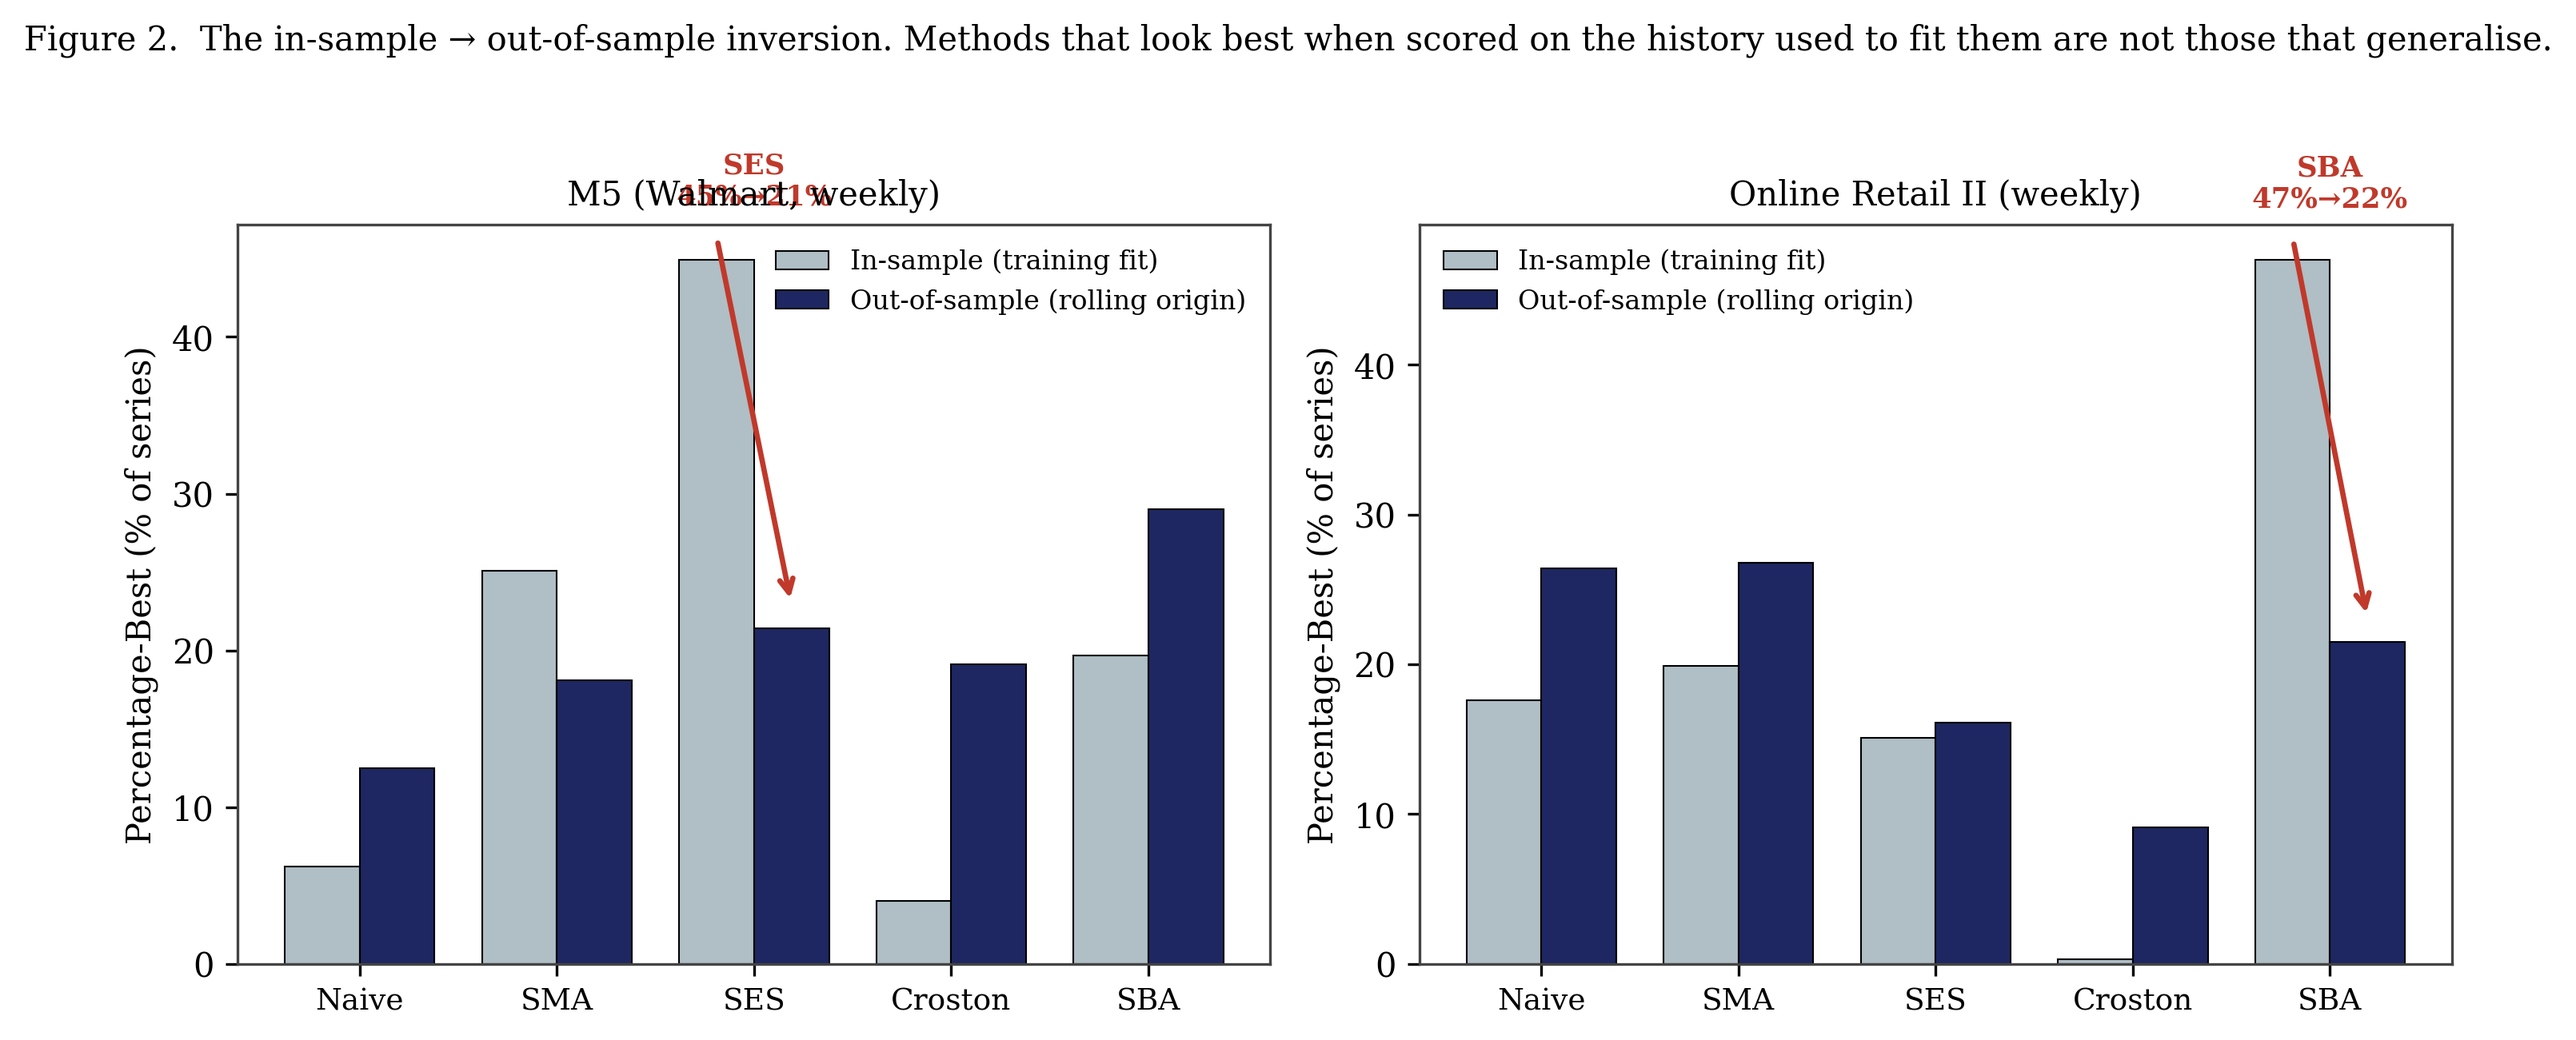
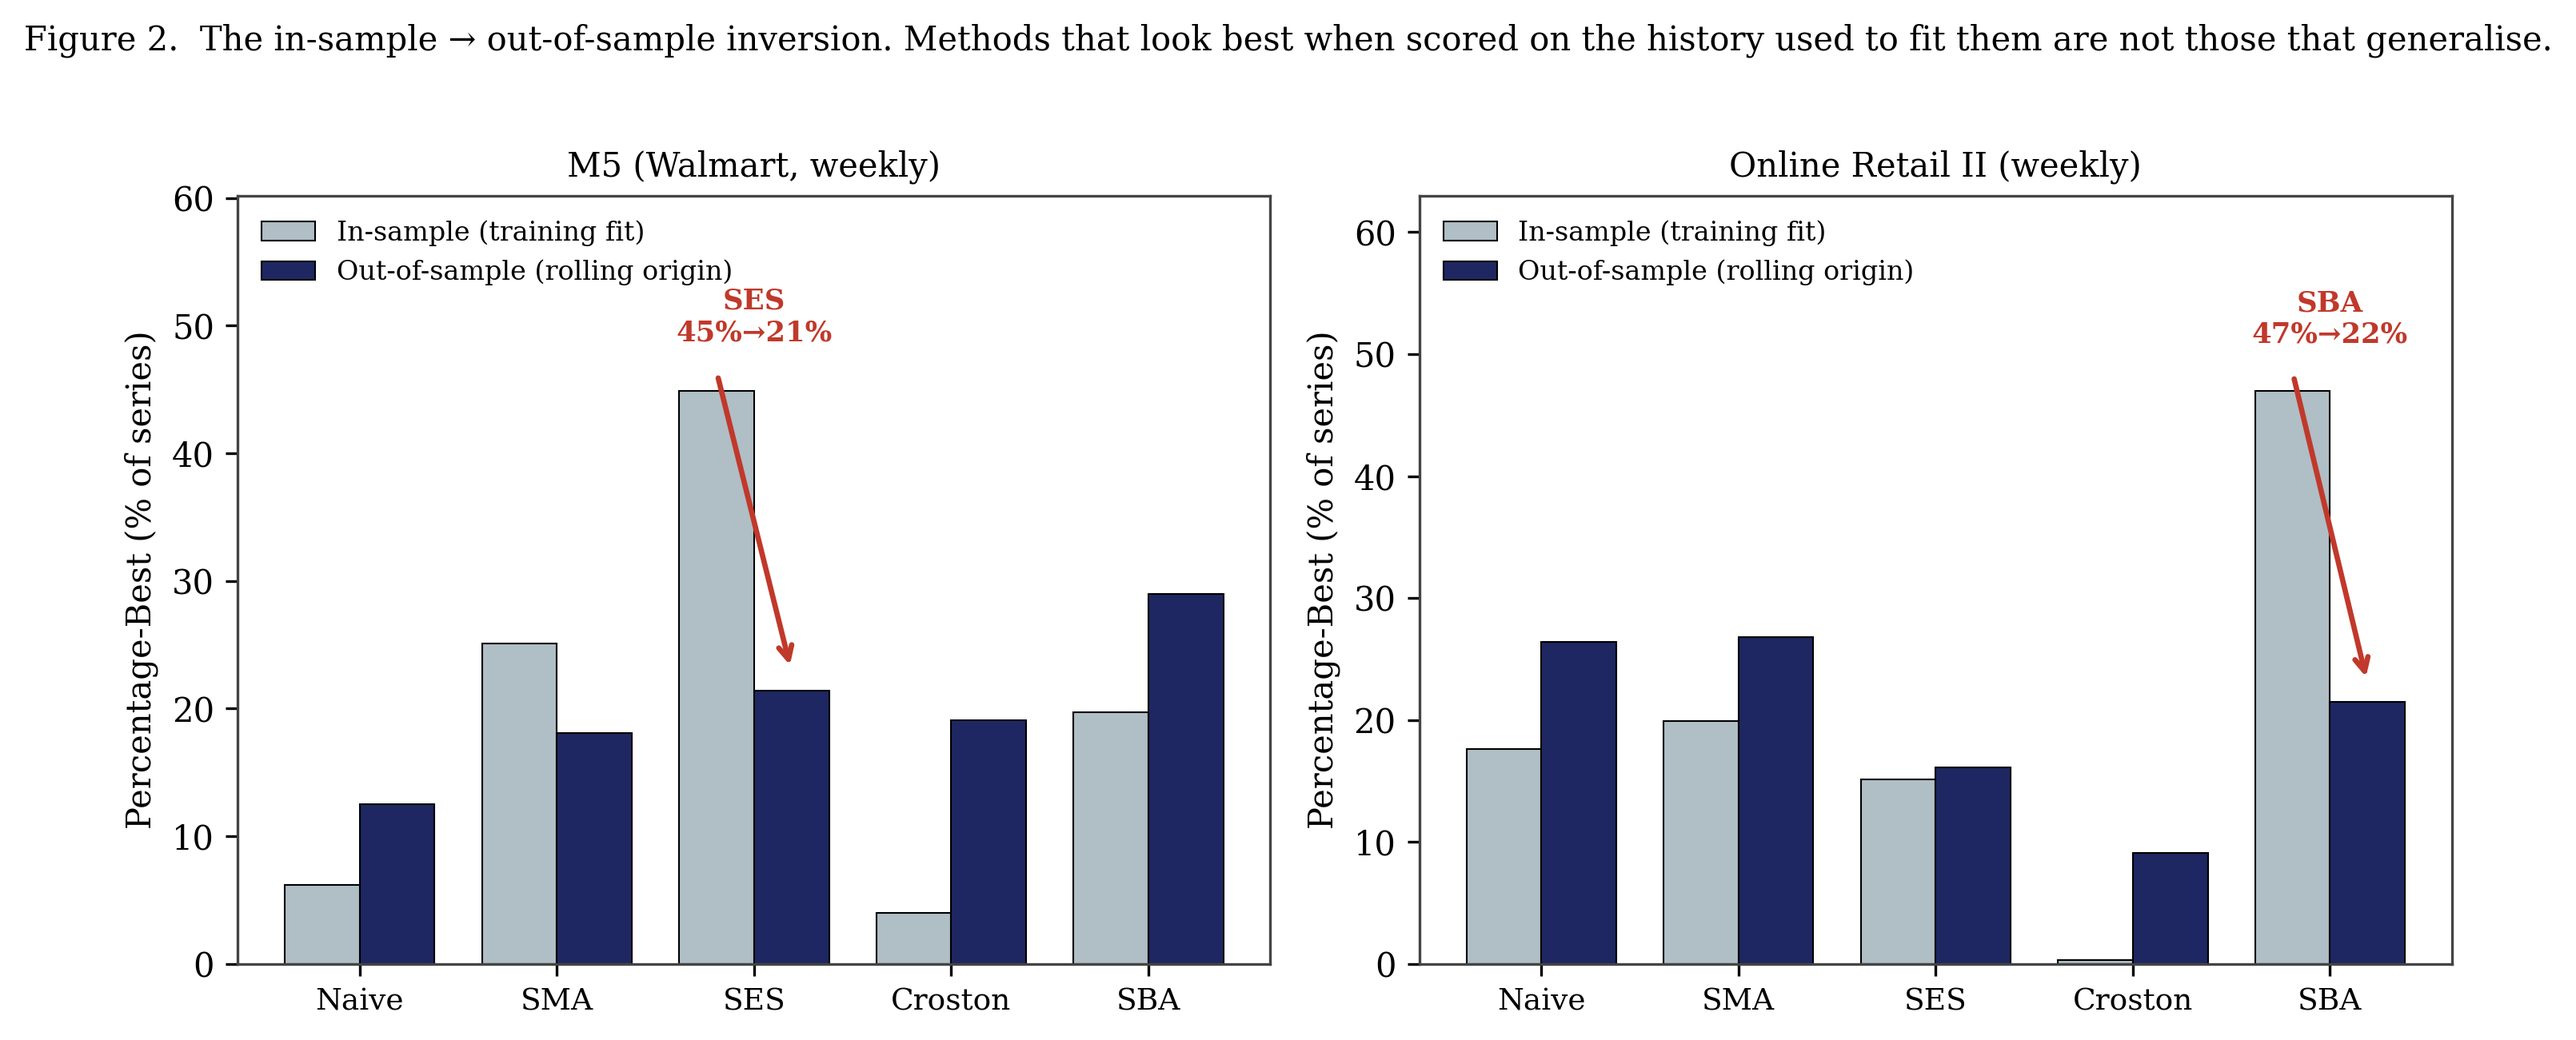
Fix two annotation collisions in the figures
Both came from placing text in data coordinates near the top of an auto-scaled
axis, so the label overran the axes and printed over whatever sat above it.

Figure 2: the in-sample champion annotation sat at y = champion PB + 3.5, which
is 48.4 on M5 and 50.5 on Online Retail II. With no explicit limit the axes
topped out just below that, so a two-line label ran into the panel title. The
axes now carry 34% headroom, the label is anchored va='bottom', and the legend
moved to upper left so it does not fill the new space.

Figure 3: the naive-benchmark label was pinned at y = 1.02, which is exactly
where the per-bar value labels are drawn (bar height + 0.01). It overprinted
1.000 and 1.031 on M5 and 0.986 on Online Retail II. It now sits in axes-fraction
coordinates above every bar.

Figures 1, 4, 6 and 7 checked and clean. Figure 1's Erratic and Smooth quadrant
labels brush the ADI cut-off line but stay legible; the left quadrant is about 7%
of the axis width so no label fits there.

diff --git a/code/07_figures.py b/code/07_figures.py
@@ -68,13 +68,17 @@ for j,ds in enumerate(['m5','or2']):
     b2=ax.bar(x+w/2,inv['oos_PB_pct'],w,label='Out-of-sample (rolling origin)',color=NAVY,edgecolor='k',lw=.5)
     ax.set_xticks(x); ax.set_xticklabels(CLS,fontsize=9)
     ax.set_ylabel('Percentage-Best (% of series)'); ax.set_title(DSNAME[ds],fontsize=10)
-    ax.legend(fontsize=8,frameon=False)
+    # Headroom for the two-line annotation below. Without an explicit limit the label
+    # starts at the top of the axes and overruns it into the panel title.
+    ax.set_ylim(0, max(inv['insample_PB_pct'].max(), inv['oos_PB_pct'].max())*1.34)
+    ax.legend(fontsize=8,frameon=False,loc='upper left')
     # annotate the collapse of each panel's IN-SAMPLE champion
     champ=inv['insample_PB_pct'].idxmax(); xi=CLS.index(champ)
     ci=inv.loc[champ,'insample_PB_pct']; co=inv.loc[champ,'oos_PB_pct']
     ax.annotate('',xy=(xi+w/2,co+1.5),xytext=(xi-w/2,ci+1.5),
                 arrowprops=dict(arrowstyle='->',color='#C0392B',lw=1.6))
-    ax.text(xi,ci+3.5,f'{champ}\n{ci:.0f}%→{co:.0f}%',ha='center',color='#C0392B',fontsize=8.5,fontweight='bold')
+    ax.text(xi,ci+3.5,f'{champ}\n{ci:.0f}%→{co:.0f}%',ha='center',va='bottom',
+            color='#C0392B',fontsize=8.5,fontweight='bold')
 fig.suptitle('Figure 2.  The in-sample → out-of-sample inversion. Methods that look best when scored on the '
              'history used to fit them are not those that generalise.',fontsize=10,y=1.02)
 fig.tight_layout(); fig.savefig(fr'{FIG}\fig2_inversion.png'); plt.close(fig)
@@ -86,7 +90,11 @@ for j,ds in enumerate(['m5','or2']):
     ov=pd.read_csv(fr'{RES}\{ds}_overall.csv').set_index('method').reindex(ORDER)
     ax=axes[j]
     bars=ax.bar(range(len(ORDER)),ov['mean_MASE'],color=[MCOL[m] for m in ORDER],edgecolor='k',lw=.6)
-    ax.axhline(1.0,color='#C0392B',ls='--',lw=1); ax.text(0.1,1.02,'naïve benchmark (MASE=1)',color='#C0392B',fontsize=7.5)
+    ax.axhline(1.0,color='#C0392B',ls='--',lw=1)
+    # Axes-fraction placement, above every bar. At data y=1.02 this label sat exactly
+    # where the per-bar value labels are drawn (bar height + 0.01) and overprinted them.
+    ax.text(0.02,0.97,'naïve benchmark (MASE = 1)',transform=ax.transAxes,
+            ha='left',va='top',color='#C0392B',fontsize=7.5)
     ax.set_xticks(range(len(ORDER))); ax.set_xticklabels([m.replace(' (AI)','\n(AI)') for m in ORDER],fontsize=8.5)
     ax.set_ylabel('mean OOS MASE  (lower = better)'); ax.set_title(DSNAME[ds],fontsize=10)
     for b,v in zip(bars,ov['mean_MASE']): ax.text(b.get_x()+b.get_width()/2,v+0.01,f'{v:.3f}',ha='center',fontsize=7.5)
